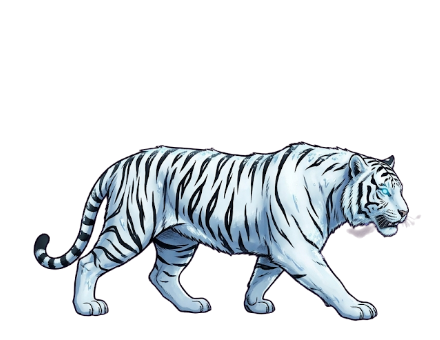
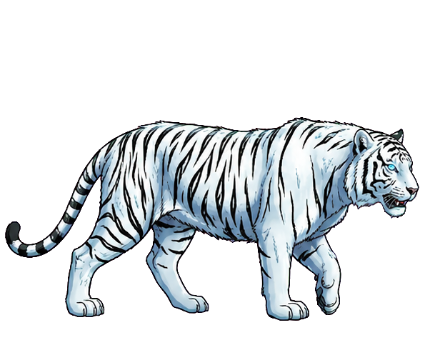
설원 백호 걷기: 네 다리가 번갈아 움직이는 그림으로 (ChatGPT)

Changed region(s): [[0.0, 0.3235, 0.975, 0.9412]]

diff --git a/작업기록.md b/작업기록.md
@@ -277,3 +277,5 @@
 - 나중에: 높낮이(언덕·절벽+계단, 낮은 못). 절벽 벽면·계단 그림이 필요해서 지금은 보류 (11-12 사용자). 한 관문에 먼저 시험 → 재미있으면 늘리기.
 - 은자 상점·새 캐릭터 준비 (11-12): 기획_은자_권사.md (정할 것 체크칸 있음). 제미나이 도구를 tools/gemini 로 옮김 (gem.sh·cdp.mjs·mkcut.js·자르기 틀·기준 그림) — 다른 PC에서도 바로 씀. 현운 그림 요청: bash tools/gemini/hero_hyunwoon.sh
 - 괴수 그림 (16:30 제미나이): 설원 백호(걷기·공격 세로 줄 그림 → mkcut walkRows/atkRows), 빙정 거미·만독 거미·흑풍 늑대는 걷기만 (공격 요청 실패 → 공격은 걷기 복사본). 그림이 앞 몹보다 단순함 → 다음에 공격 그림과 함께 다시 그려도 됨.
+- 백호 걷기 다시 (사용자 "앞발만 움직임"): ChatGPT(9222 탭, tools/gemini/gpt.mjs)에 다리마다 자세를 적어 요청 → 네 다리가 번갈아 움직임. 공격은 예전 그림 그대로.
+- 제미나이가 Flash-Lite 로 바뀌면 그림 품질 낮음·첨부 실패 → 거미·늑대 걷기 그림이 단순했던 이유. 공격 다시: tools/gemini/attack_redo.sh
